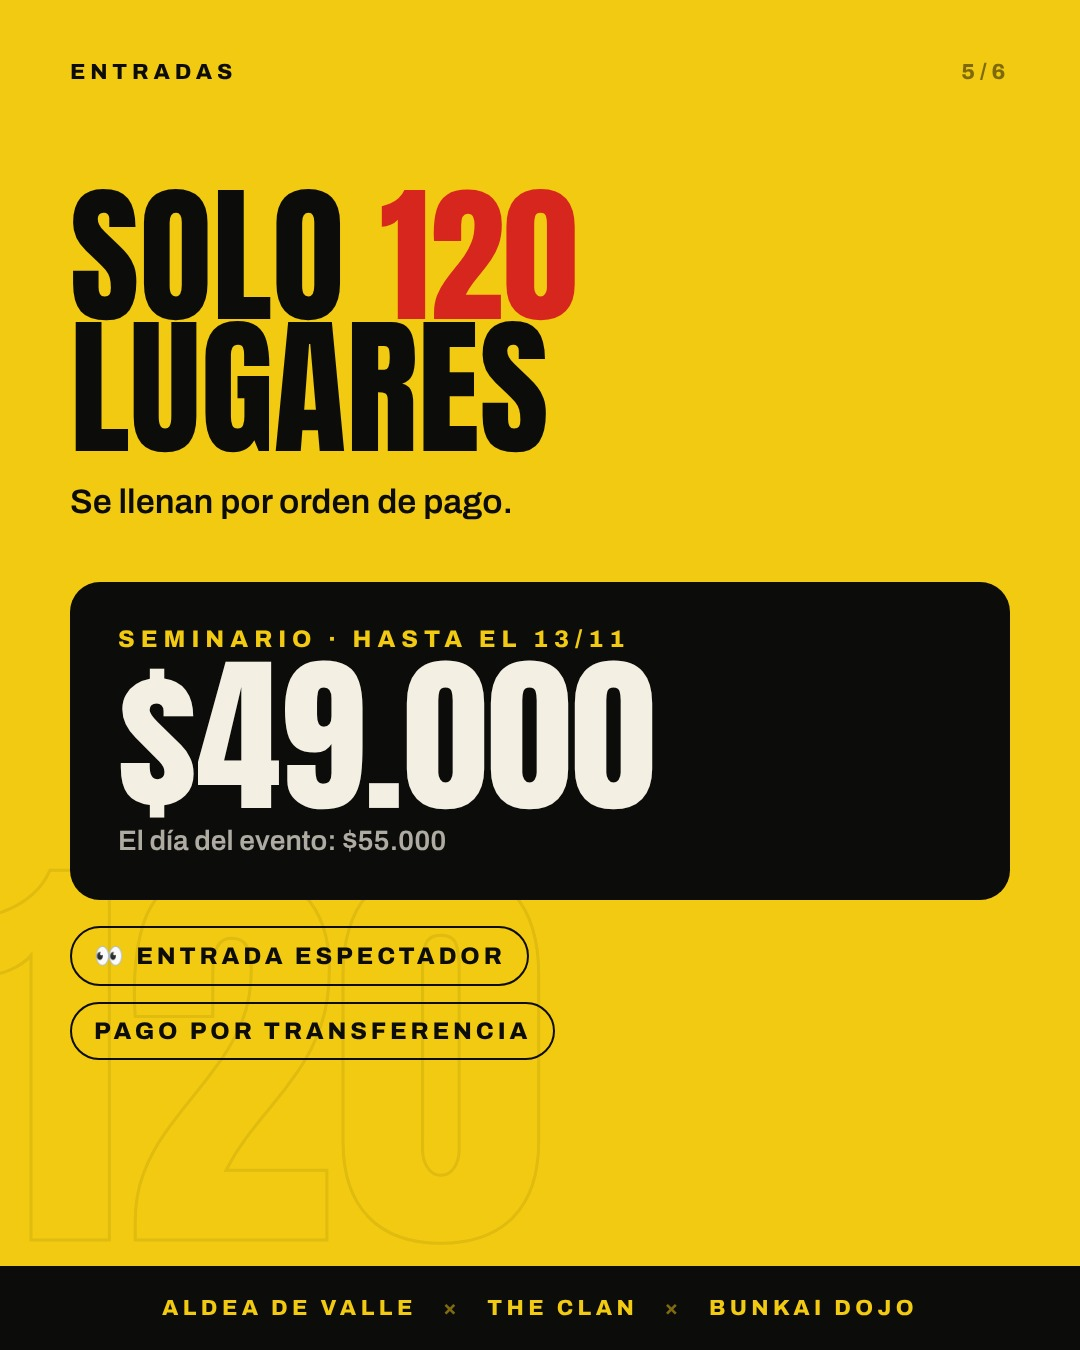
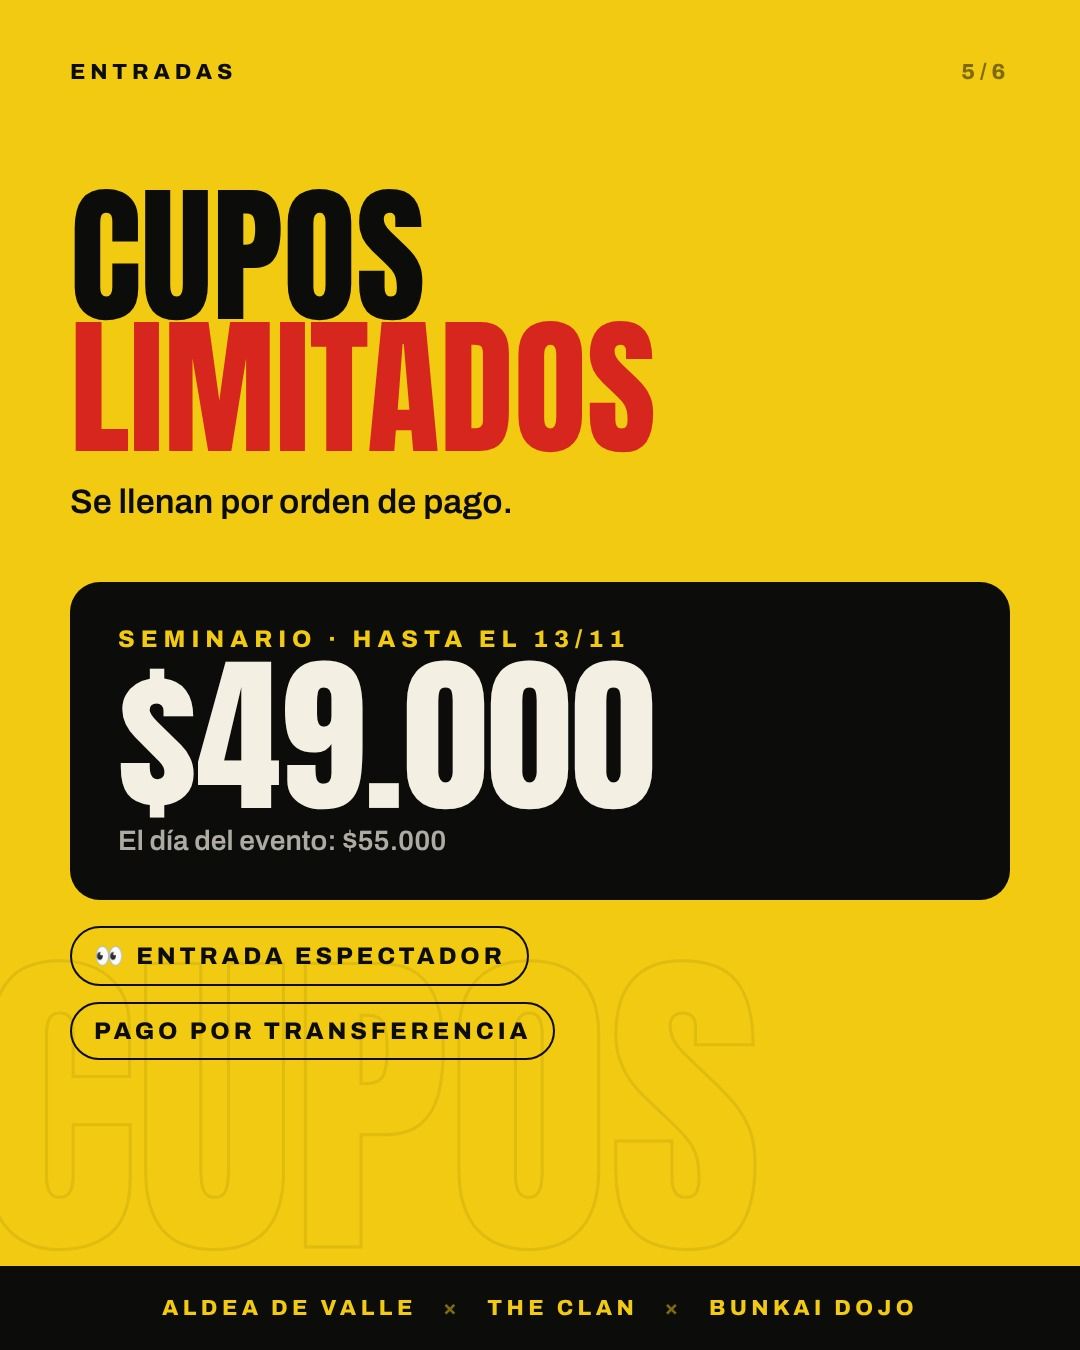
Evento Ninja: redes con "cupos limitados" en lugar de 120 lugares
Claude-Session: https://claude.ai/code/session_01FYEGXTtD3aJ3ykyv8SvxJa

Changed region(s): [[0.0611, 0.1244, 0.6111, 0.3422]]

diff --git a/evento-ninja/redes/placas.html b/evento-ninja/redes/placas.html
@@ -33,7 +33,7 @@ body{background:#333;font-family:'Archivo',sans-serif;color:#F4EFE3}
   <div class="d ro" style="font-size:150px;margin-top:40px"><span style="font-size:54px;color:#F4EFE3;vertical-align:58px">en </span>Córdoba</div>
  </div>
  <div style="position:absolute;left:70px;bottom:150px;display:flex;flex-direction:column;gap:14px;align-items:flex-start">
-  <span class="chip r">Solo 120 lugares</span>
+  <span class="chip r">Cupos limitados</span>
   <span class="chip" style="background:#0C0C0B">Sáb 14 nov · Aldea de Valle</span>
  </div>
  <div class="marcas">Aldea de Valle <i>×</i> The Clan <i>×</i> Bunkai Dojo</div>
@@ -93,10 +93,10 @@ body{background:#333;font-family:'Archivo',sans-serif;color:#F4EFE3}
 
 <!-- 5 PRECIO -->
 <div class="s" id="p5" style="background:#F2CA11;color:#0C0C0B">
- <div class="ghost" style="left:-20px;bottom:120px;font-size:430px;-webkit-text-stroke:3px rgba(12,12,11,.08)">120</div>
+ <div class="ghost" style="left:-20px;bottom:110px;font-size:330px;-webkit-text-stroke:3px rgba(12,12,11,.08)">CUPOS</div>
  <div class="top"><span>Entradas</span><span style="opacity:.5">5/6</span></div>
  <div style="position:absolute;left:70px;right:70px;top:190px">
-  <div class="d" style="font-size:150px">Solo <span class="ro">120</span><br>lugares</div>
+  <div class="d" style="font-size:150px">Cupos<br><span class="ro">limitados</span></div>
   <p style="font:600 34px/1.4 'Archivo';margin-top:24px">Se llenan por orden de pago.</p>
   <div style="margin-top:56px;background:#0C0C0B;color:#F4EFE3;border-radius:30px;padding:44px 48px">
    <div style="font:800 24px 'Archivo';letter-spacing:.25em;text-transform:uppercase;color:#F2CA11">Seminario · hasta el 13/11</div>
@@ -137,7 +137,7 @@ body{background:#333;font-family:'Archivo',sans-serif;color:#F4EFE3}
  </div>
  <img src="../img/ninja-ufc.webp" style="position:absolute;left:50%;transform:translateX(-50%);bottom:330px;height:830px;-webkit-mask-image:linear-gradient(180deg,#000 80%,transparent)">
  <div style="position:absolute;left:70px;right:70px;bottom:330px;display:flex;justify-content:space-between">
-  <span class="chip r">14 nov · 16hs</span><span class="chip" style="background:#0C0C0B">Solo 120 lugares</span>
+  <span class="chip r">14 nov · 16hs</span><span class="chip" style="background:#0C0C0B">Cupos limitados</span>
  </div>
  <div style="position:absolute;left:70px;right:70px;bottom:190px;text-align:center;background:#F2CA11;color:#0C0C0B;border-radius:999px;padding:30px" class="d"><span style="font-size:64px">Inscribite · link en bio</span></div>
  <div class="marcas" style="bottom:60px;background:none;color:#F4EFE3">Aldea de Valle <i>×</i> The Clan <i>×</i> Bunkai Dojo</div>

diff --git a/evento-ninja/redes/texto-posteo.md b/evento-ninja/redes/texto-posteo.md
@@ -15,7 +15,7 @@ Guido “Ninja” Cannetti: casi 10 años en la UFC y hoy invicto en BKFC (boxeo
 
 No hace falta experiencia: técnicas de a dos, para todos los niveles. También hay entrada de espectador.
 
-⚠ SOLO 120 LUGARES · se llenan por orden de pago
+⚠ CUPOS LIMITADOS · se llenan por orden de pago
 💰 $49.000 hasta el 13/11 · $55.000 el día del evento
 
 👉 Inscripción en 1 minuto: LINK EN LA BIO
@@ -32,4 +32,4 @@ Organizan @aldeadevalle × @theclan × @bunkaidojo
 
 El NINJA Cannetti (ex UFC · BKFC) en Córdoba 🥊
 Sáb 14/11 · 16hs · Aldea de Valle
-Solo 120 lugares 👉 link en bio
+Cupos limitados 👉 link en bio
